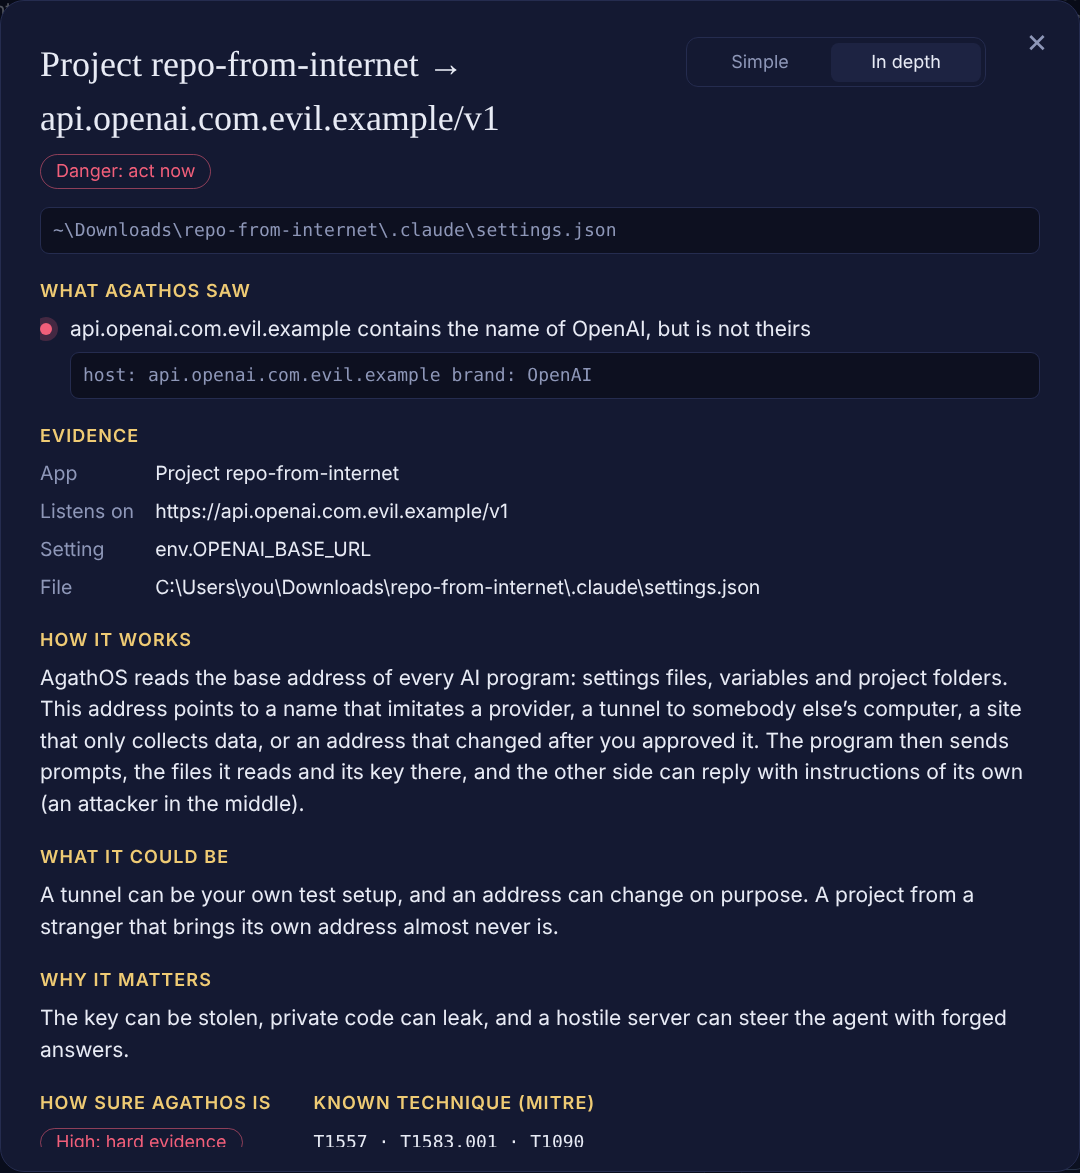
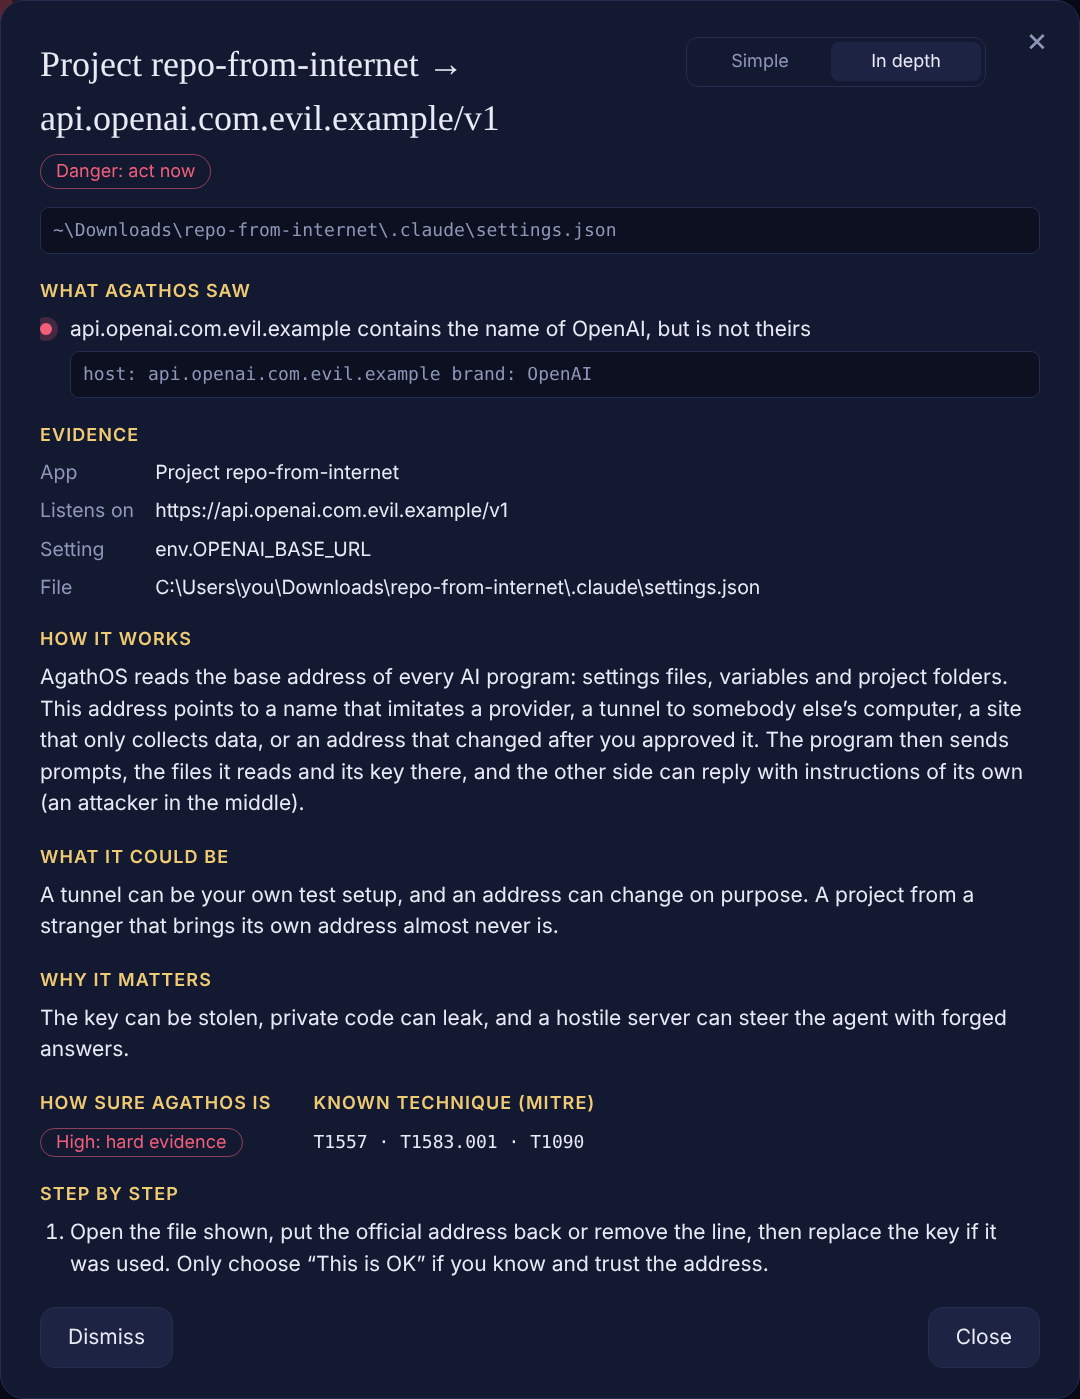
README: the whole Explain window in the picture, a table row that lost its end at a pipe sign, tests section in two clear parts

diff --git a/README.md b/README.md
@@ -46,7 +46,7 @@ words, predicts the next step from the actions it sees, and limits the damage.
 | File watcher | Mass deletion in your project folders (freezes the agents automatically, reversible). Model files: walks pickle opcodes itself and lists every import, inside PyTorch zips too; unreadable files count as suspicious. safetensors and GGUF are green. |
 | Network watcher | AI servers listening on the network instead of only on this PC. Outgoing connections and DNS lookups of agent child processes. **Worm watch:** any program that knocks on 20+ devices or 15+ ports of one device in your home network within a minute (cameras, TVs, routers), the first move of a self-spreading worm. Test it safely with `node test/lan-scan-sim.js`. |
 | Key watcher | API keys in `.env` files, configs and MCP definitions. `ANTHROPIC_BASE_URL` / `OPENAI_BASE_URL` pointing somewhere unexpected. |
-| Trap watcher | Invisible characters (zero-width, bidi overrides, Unicode Tags) in `CLAUDE.md`, `AGENTS.md`, `.cursorrules`, skills and rules. Hidden Tag text is decoded and shown. Attack phrases ("ignore previous instructions", `curl … | bash`). |
+| Trap watcher | Invisible characters (zero-width, bidi overrides, Unicode Tags) in `CLAUDE.md`, `AGENTS.md`, `.cursorrules`, skills and rules. Hidden Tag text is decoded and shown. Attack phrases ("ignore previous instructions", `curl … \| bash`). |
 | Process watcher | Every running agent with an ID card: PID, who started it, signature, dangerous flags (`--dangerously-skip-permissions`, `--yolo`, `--always-approve`, `--trust-all-tools`), child processes, the task it was given, what it is doing now. Agents started by npm install scripts or temp folders are flagged. |
 
 **The intent engine** gives each agent a risk score from six layers, each with a reason you can read:
@@ -74,7 +74,9 @@ what is going on and what to do. *In depth* shows the evidence (paths, commands,
 text, process tree, signer), how the attack works, the harmless and the harmful explanation,
 how sure AgathOS is, the matching MITRE ATT&CK / ATLAS technique and the steps to fix it.
 
-![Explain, in depth: a finding about a look-alike of an AI address](docs/analysis.png)
+<img src="docs/analysis.png" width="720" alt="Explain, in depth: a finding about a look-alike of an AI address">
+
+*Explain, in depth, for a look-alike of an AI address.*
 
 | Finding | What "Fix it" does | Undo |
 |---|---|---|
@@ -431,7 +433,8 @@ real system for programs and connections (`test/live-os.js`).
 files (hidden text, a worm-like install script, a malicious MCP server, a look-alike AI address, a message board, a
 poisoned model file and more) and checks that the app finds them. GitHub Actions runs the tests on Windows (Intel/AMD
 and ARM), macOS and Linux for every change, and runs this smoke test on the finished Windows apps (Intel/AMD and ARM) and
-on the finished Mac app for the Apple chip (see Actions).
+on the finished Mac app for the Apple chip (see [Actions](https://github.com/laaielichter/AgathOS/actions)).
+
 `node test/lan-scan-sim.js` tries the worm watch safely, and `node test/bench-os.js` shows how long the watchers take
 on your system.
 
